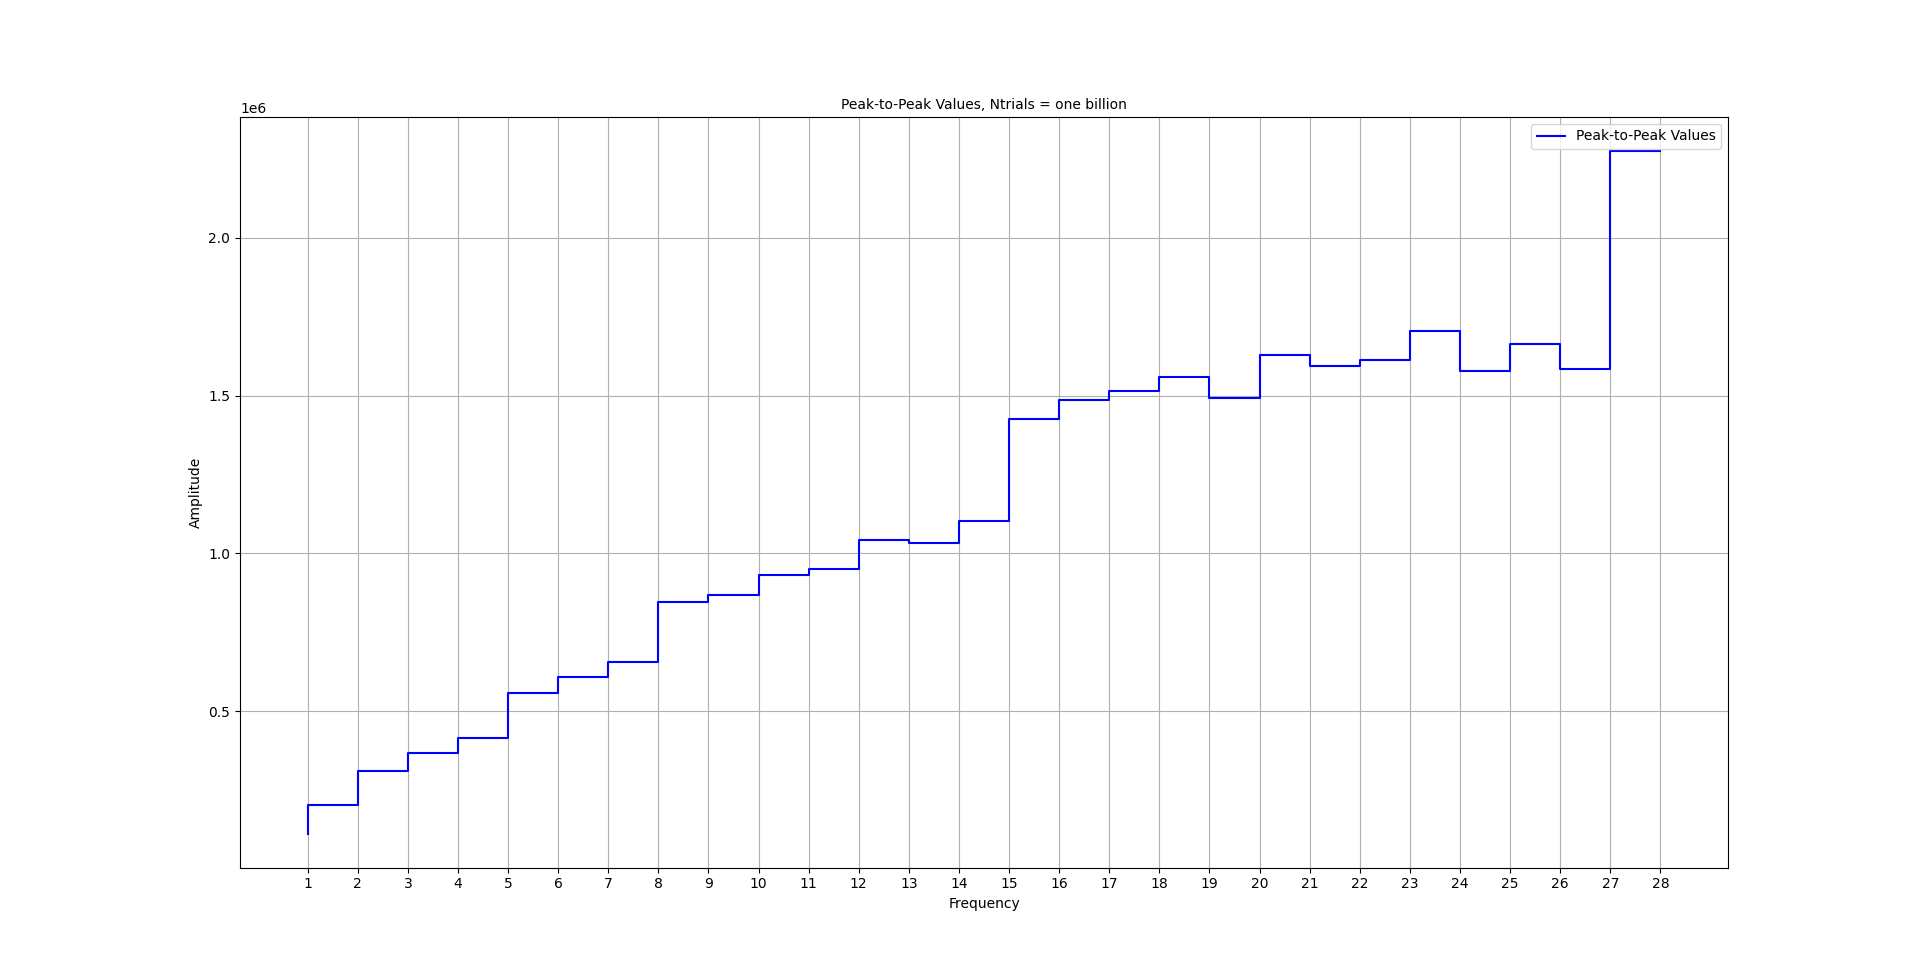
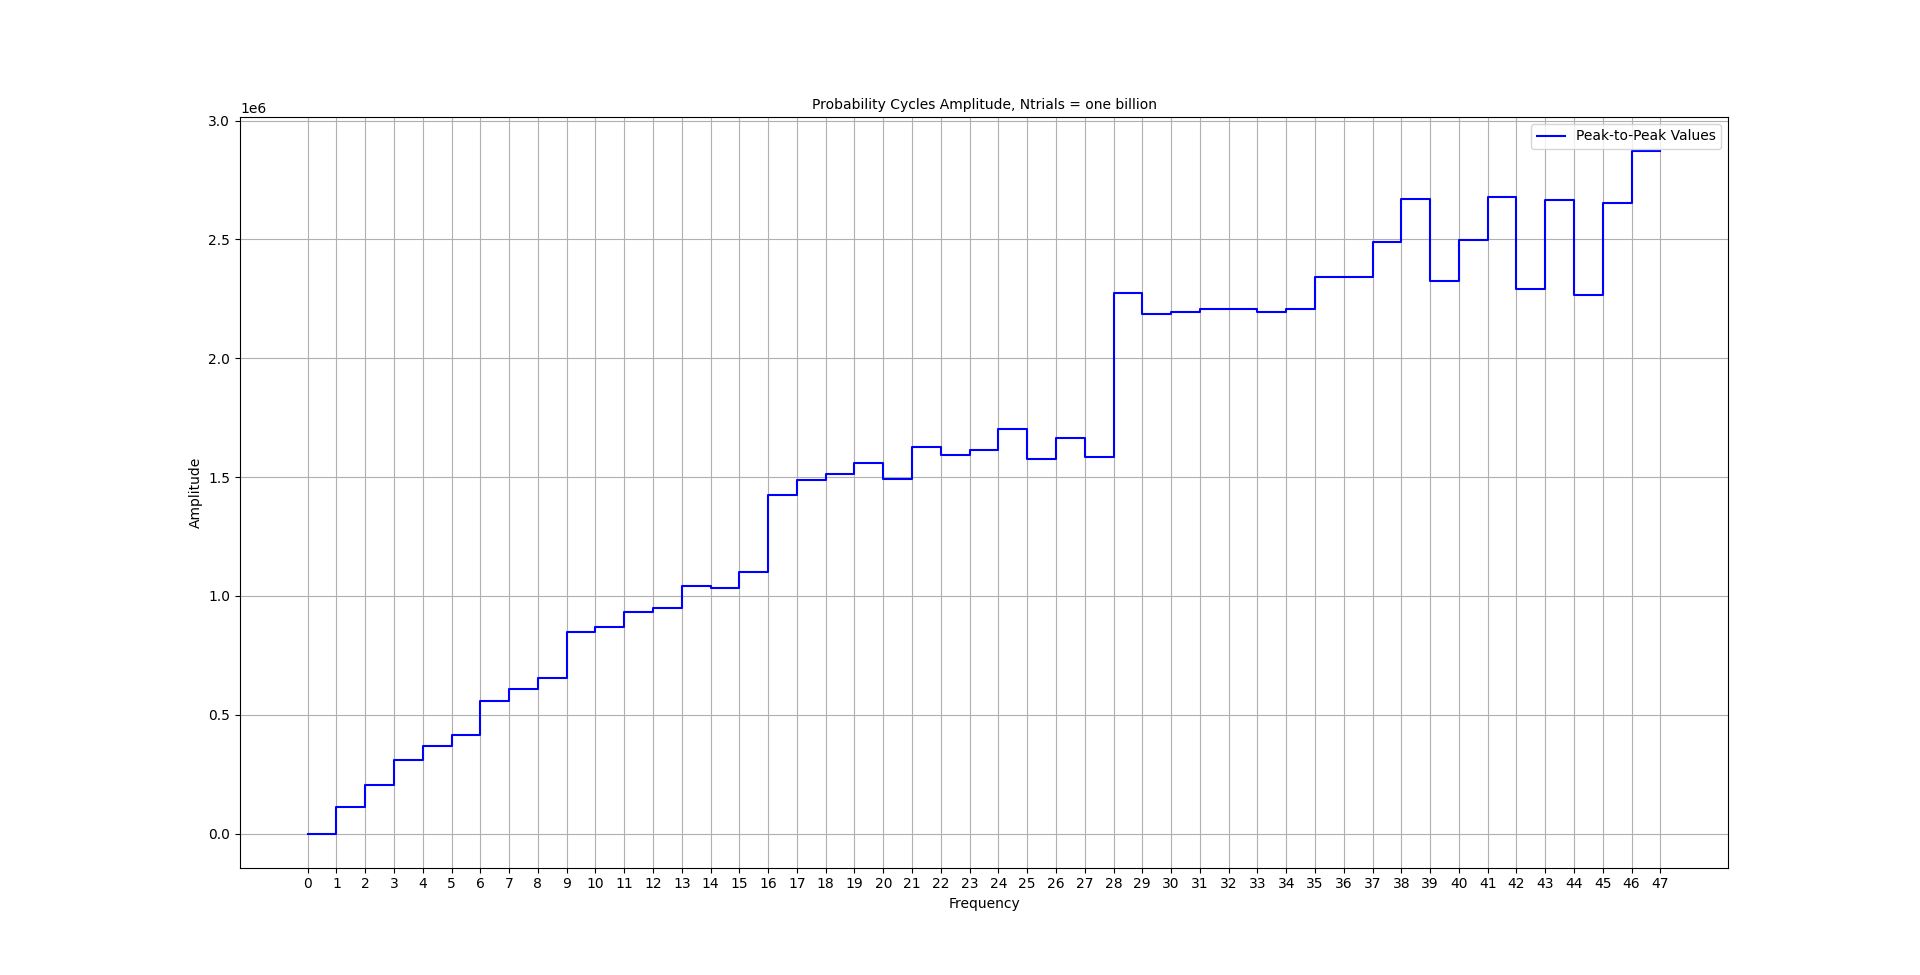
update

diff --git a/Galton Board/Galton_Board.cpp b/Galton Board/Galton_Board.cpp
@@ -435,7 +435,7 @@ int main(int argc, char** argv)
 			plot.set_ylabel("Amplitude");
 			plot.grid_settings(X);
 			plot.grid_on();
-			auto d = "Peak-to-Peak Values, Ntrials = " + nameForNumber(1000000000);
+			auto d = "Probability Cycles Amplitude, Ntrials = " + nameForNumber(1000000000);
 			plot.set_title(d);
 			plot.show();
 
